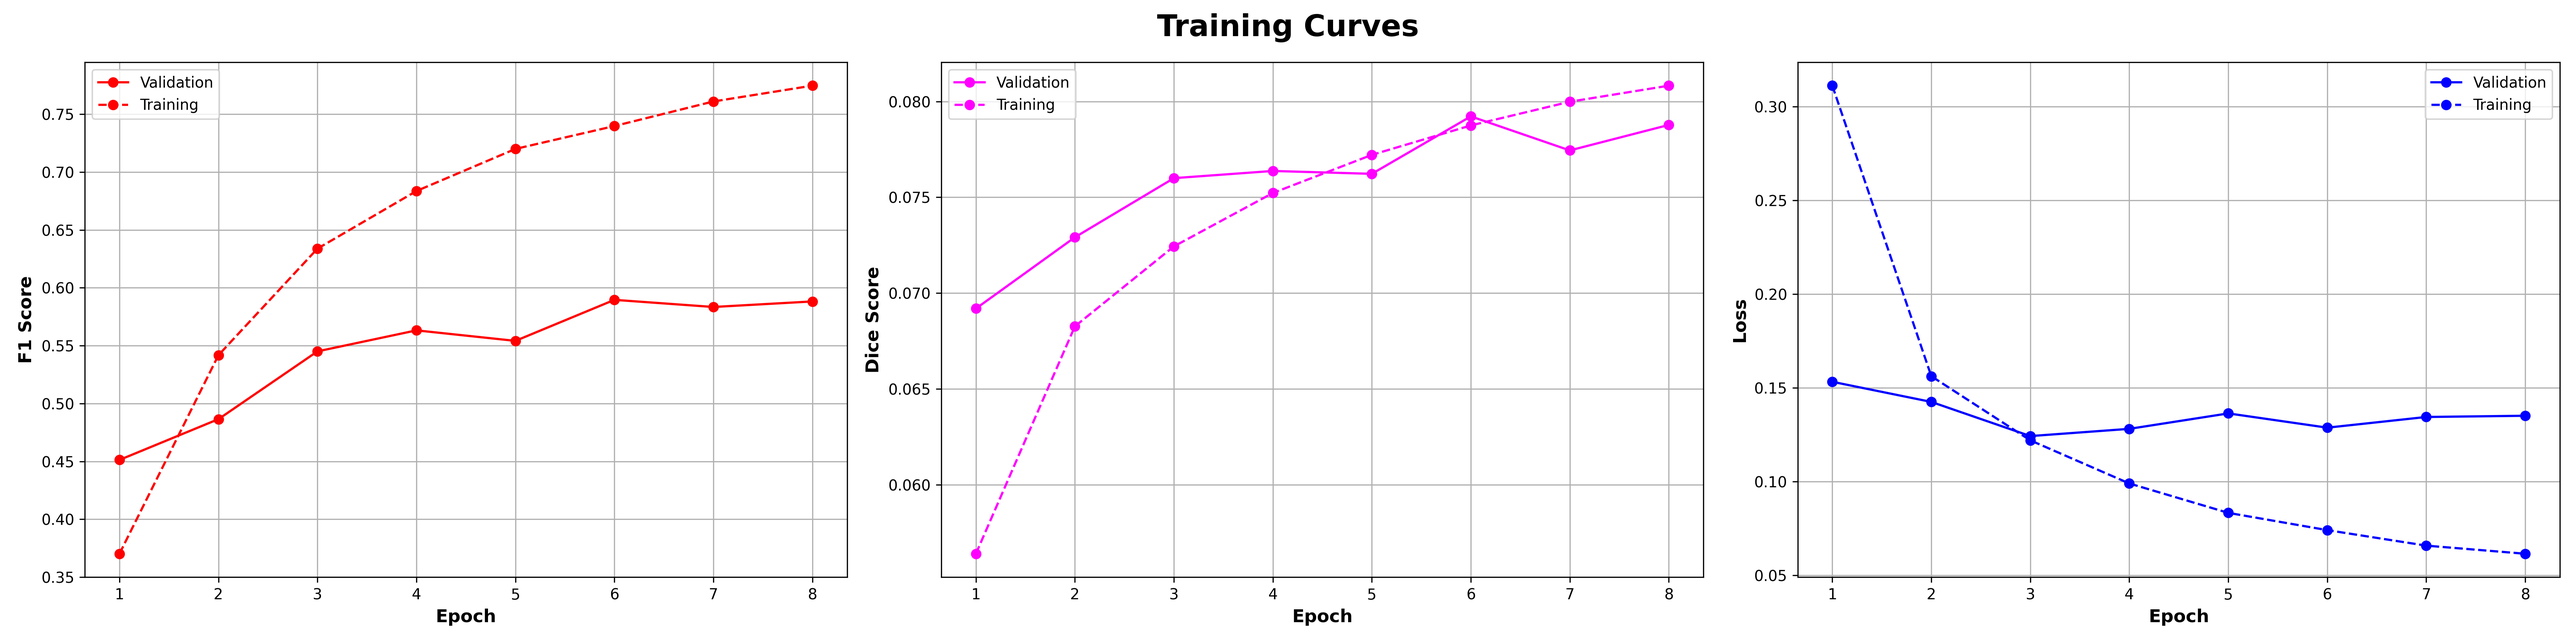
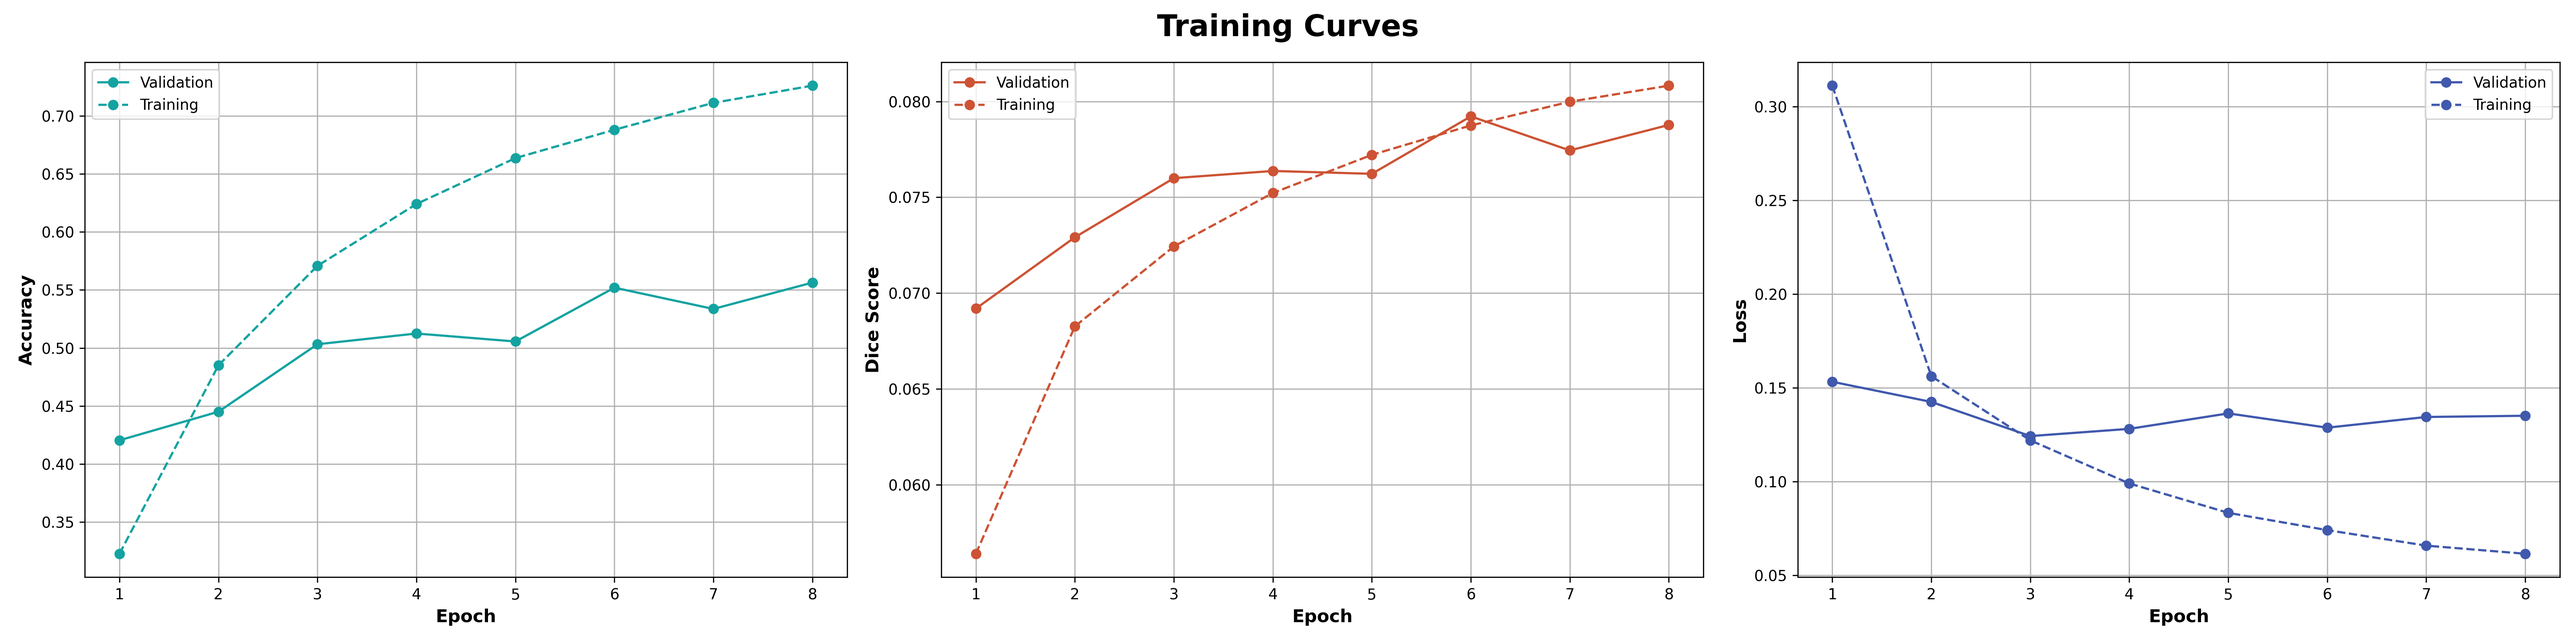
update colors in training curves

diff --git a/practicals/p2/notebooks/results_analysis.py b/practicals/p2/notebooks/results_analysis.py
@@ -108,7 +108,7 @@ plt.suptitle("Confusion Matrices of Worst 12 Classes", fontsize=20, weight="bold
 plt.tight_layout()
 
 # %%
-# plot the training curves
+# define plot_metrics
 def plot_metrics(metrics_df: pd.DataFrame, metrics: List[Tuple[str, str, str, str]], title: str, save_path: Path):
     fig, axs = plt.subplots(1, len(metrics), figsize=(8 * len(metrics), 6))
     epochs = metrics_df.index
@@ -128,13 +128,14 @@ def plot_metrics(metrics_df: pd.DataFrame, metrics: List[Tuple[str, str, str, st
     plt.show()
 
 # %%
+# plot the training curves
 experiment_ids = [24]
 for experiment_id in experiment_ids:
     metrics_df = metrics_dfs[f"experiment_{experiment_id}"]
     metrics: List[Tuple[str, str, str, str]] = [
-        ("val_f1", "train_f1", "F1 Score", "#FF0000"),
-        ("val_dice", "train_dice", "Dice Score", "#FF00FF"),
-        ("val_loss", "train_loss", "Loss", "#0000FF"),
+        ("val_accuracy", "train_accuracy", "Accuracy", "#14A3A1"),
+        ("val_dice", "train_dice", "Dice Score", "#CD5334"),
+        ("val_loss", "train_loss", "Loss", "#4059AD"),
     ]
     plot_metrics(metrics_df, metrics, f"Training Curves", FIGURES_DIR / f"validation_metrics_experiment_{experiment_id}.png")
 
